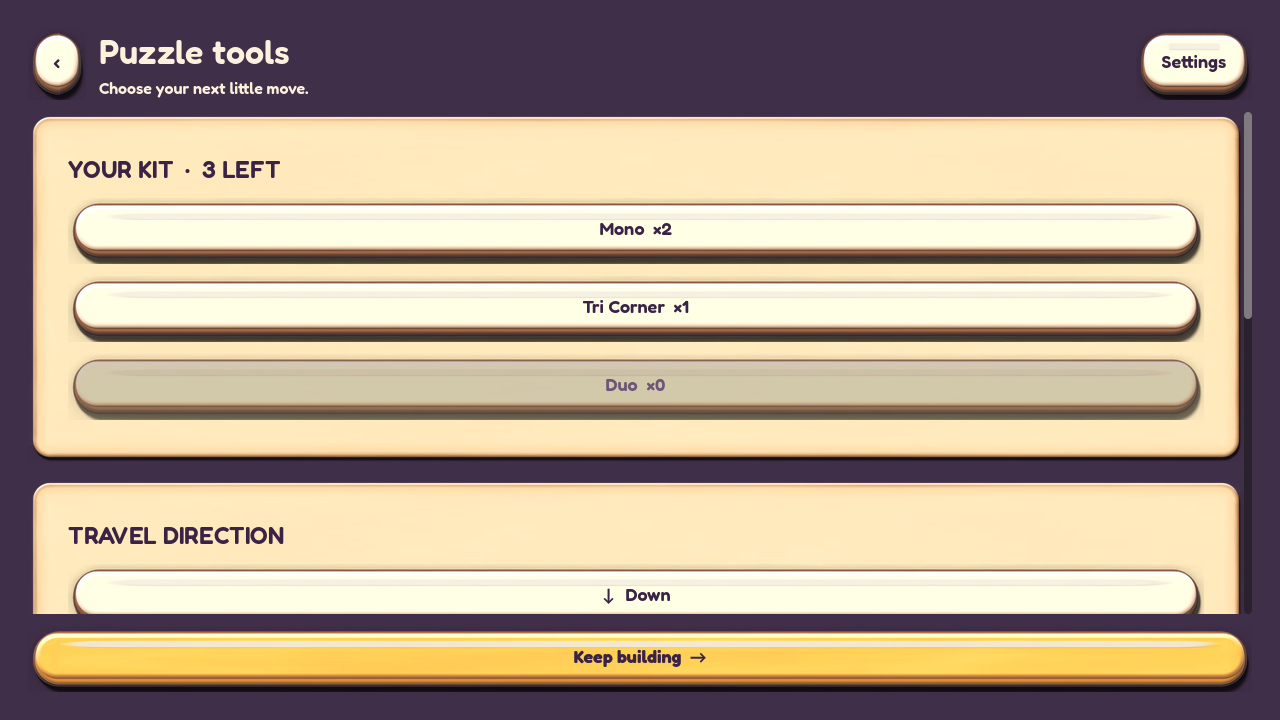
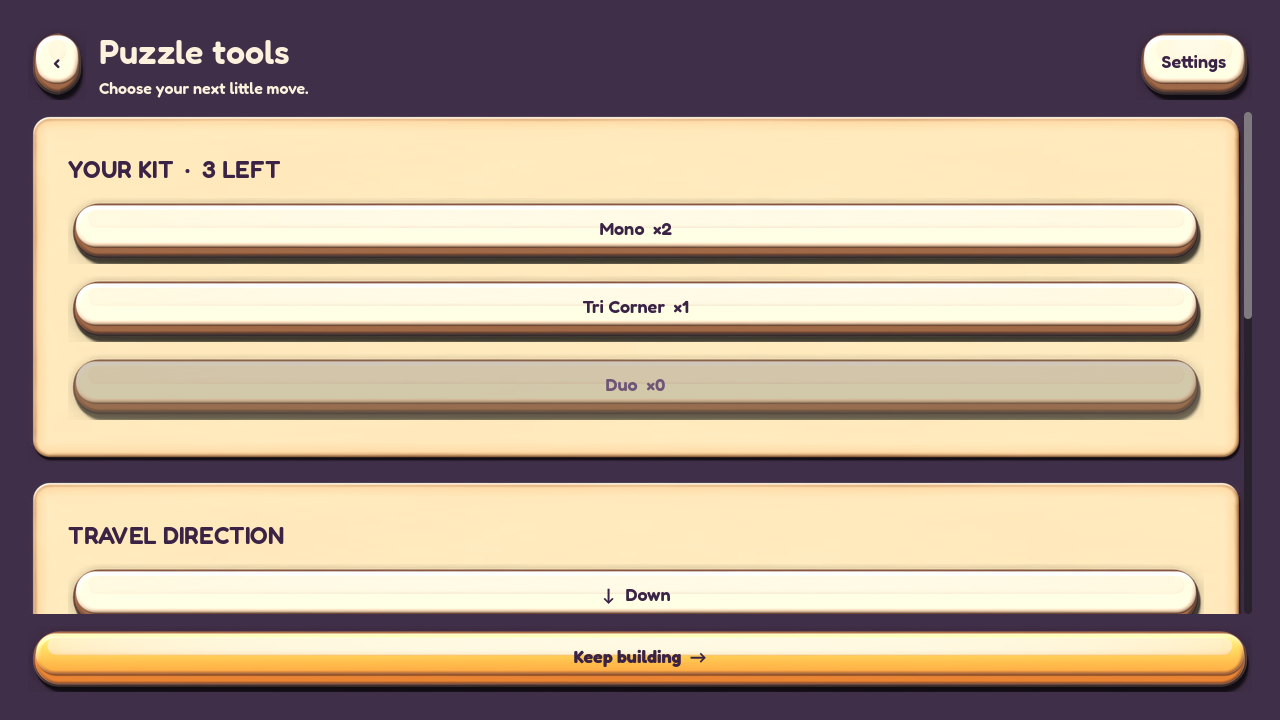
wip(art): style R&D and UI kit agent output
Story: art bible v2 (design/art/art-bible.md)

Claude-Session: https://claude.ai/code/session_015gA98JmmjSJ5ZLv762bPy3

diff --git a/assets/source/blender/ui/build_ui_kit.py b/assets/source/blender/ui/build_ui_kit.py
@@ -264,7 +264,8 @@ class NT:
         return self.m
 
 
-def mat_wood(name, palette=("wood_purple_dark", "wood_purple", "wood_purple_light"), grain="X", seed=0.0, grain_scale=1.0):
+def mat_wood(name, palette=("wood_purple_dark", "wood_purple", "wood_purple_light"), grain="X", seed=0.0, grain_scale=1.0,
+             groove=0.35, wear=None):
     t = NT(name)
     sc = (0.35 * grain_scale, 4.0 * grain_scale, 1) if grain == "X" else (4.0 * grain_scale, 0.35 * grain_scale, 1)
     co = t.obj_coords(sc)
@@ -278,8 +279,8 @@ def mat_wood(name, palette=("wood_purple_dark", "wood_purple", "wood_purple_ligh
     g = t.math("MULTIPLY", (wave, "Fac"), (noise, "Fac"))
     g = t.math("ADD", g, 0.25)
     base = t.ramp(g, [(0.15, palette[0]), (0.42, palette[1]), (0.7, palette[1]), (0.95, palette[2])])
-    colr = t.painted_edges(base, palette[2], palette[0])
-    return t.finish(colr, rough=0.6, bump=(wave, "Fac"), bump_strength=0.35)
+    colr = t.painted_edges(base, wear or palette[2], palette[0], strength=1.0 if wear is None else 1.6)
+    return t.finish(colr, rough=0.6, bump=g, bump_strength=groove)
 
 
 def mat_gold(name="gold", face="gold", deep="gold_deep", glint="gold_glint", coat=0.7):
@@ -333,6 +334,57 @@ def mat_parchment(name, hw, hh, r, burn_w=0.10):
     c = t.mix(t.math("POWER", burn_f, 1.3), c, col("burn"))
     c = t.painted_edges(c, "fff8e6", "b88a52", strength=0.6)
     return t.finish(c, rough=0.85, spec=0.15, bump=(noise, "Fac"), bump_strength=0.08)
+
+
+def mat_gold_face(hh):
+    """Gold pill face: light gold at the top to deeper amber at the bottom, faint mottling."""
+    t = NT("gold_face")
+    co = t.obj_coords()
+    sep = t.n("ShaderNodeSeparateXYZ")
+    t.l(co[0], 0, sep, 0)
+    fy = t.math("ADD", t.math("MULTIPLY", (sep, 1), 0.5 / hh), 0.5, clamp=True)
+    noise = t.n("ShaderNodeTexNoise", in_Scale=3.0, in_Detail=2.0)
+    t.l(co[0], 0, noise, "Vector")
+    grad = t.ramp(t.math("ADD", fy, t.math("MULTIPLY", (noise, "Fac"), 0.08)),
+                  [(0.0, "e08a12"), (0.45, "f5b22c"), (0.8, "ffd451"), (1.0, "ffe27a")])
+    colr = t.painted_edges(grad, "fff0a8", "b86e0a", strength=1.1)
+    return t.finish(colr, rough=0.28, coat=0.8, spec=0.6)
+
+
+def mat_gloss(hw, hh, peak=0.75):
+    """Soft glossy highlight: alpha fades toward the ends (|x|^3) and toward the bottom."""
+    m = bpy.data.materials.new("gloss")
+    m.use_nodes = True
+    t = m.node_tree
+    t.nodes.clear()
+    def node(kind, **kw):
+        n = t.nodes.new(kind)
+        for k, v in kw.items(): setattr(n, k, v)
+        return n
+    def mth(op, a, b):
+        n = node("ShaderNodeMath", operation=op, use_clamp=True)
+        for i, v in enumerate((a, b)):
+            if isinstance(v, (int, float)): n.inputs[i].default_value = v
+            else: t.links.new(v, n.inputs[i])
+        return n.outputs[0]
+    tc = node("ShaderNodeTexCoord")
+    sep = node("ShaderNodeSeparateXYZ")
+    t.links.new(tc.outputs["Object"], sep.inputs[0])
+    ax = mth("DIVIDE", mth("ABSOLUTE", sep.outputs[0], 0), hw)
+    fx = mth("SUBTRACT", 1.0, mth("POWER", ax, 3.0))
+    fy = mth("POWER", mth("ADD", mth("DIVIDE", sep.outputs[1], 2 * hh), 0.5), 1.6)
+    fac = mth("MULTIPLY", mth("MULTIPLY", fx, fy), peak)
+    out = node("ShaderNodeOutputMaterial")
+    em = node("ShaderNodeEmission")
+    em.inputs[0].default_value = col("fffbe8")
+    em.inputs[1].default_value = 1.0
+    tr = node("ShaderNodeBsdfTransparent")
+    mx = node("ShaderNodeMixShader")
+    t.links.new(fac, mx.inputs[0])
+    t.links.new(tr.outputs[0], mx.inputs[1])
+    t.links.new(em.outputs[0], mx.inputs[2])
+    t.links.new(mx.outputs[0], out.inputs[0])
+    return m
 
 
 def mat_streak():
@@ -453,21 +505,23 @@ def build_frame_purple(open_center=False):
         hw = S / 2 - T + 0.12
         rslab("parch", hw * 2, hw * 2, 0.18, 0.06, 0.03, z, mat_parchment("parch_in", hw, hw, 0.18, 0.12))
     # Dark inner bevel ring under the planks (frame reads raised over the content).
-    inner = rr_pts(S - 2 * T + 0.04, S - 2 * T + 0.04, 0.1)
-    outer = rr_pts(S - 2 * T + 0.32, S - 2 * T + 0.32, 0.2)
-    slab("bevel", [outer, inner], 0.16, 0.05, z, mat_plain("bev", "wood_purple_dark", "6b4a8a", "1f1430", rough=0.7))
+    inner = rr_pts(S - 2 * T - 0.1, S - 2 * T - 0.1, 0.12)
+    outer = rr_pts(S - 2 * T + 0.4, S - 2 * T + 0.4, 0.22)
+    slab("bevel", [outer, inner], 0.2, 0.07, z, mat_plain("bev", "2e1d40", "4a3266", "140b20", rough=0.7))
     # Four planks: top/bottom rails overhang the side posts with rounded ends.
-    wh = mat_wood("wood_h", grain="X", seed=1.3, grain_scale=0.6)
-    wv = mat_wood("wood_v", grain="Y", seed=4.1, grain_scale=0.6)
+    wh = mat_wood("wood_h", grain="X", seed=1.3, grain_scale=0.6, groove=0.9, wear="c9ace6")
+    wv = mat_wood("wood_v", grain="Y", seed=4.1, grain_scale=0.6, groove=0.9, wear="c9ace6")
     rail_w = S
     for sy in (1, -1):
         cy = sy * (S / 2 - T / 2)
         rslab("rail", rail_w, T, 0.3, 0.4, 0.13, z + 0.06, wh, cy=cy)
         # plank seam
-        rslab("seam", rail_w - 0.5, 0.025, 0.012, 0.02, 0.008, z + 0.39, mat_plain("seam", "3f2a55", "3f2a55", "2a1b3a"), cy=cy + sy * 0.05)
+        for off in (-0.2, 0.18):
+            rslab("seam", rail_w - 0.6, 0.045, 0.02, 0.03, 0.012, z + 0.45, mat_plain("seam", "2a1b3a", "3f2a55", "160e22", rough=0.9), cy=cy + off)
     for sx in (1, -1):
         cx = sx * (S / 2 - T / 2 - 0.1)
         rslab("post", T - 0.14, S - 2 * T + 0.3, 0.14, 0.34, 0.11, z + 0.04, wv, cx=cx)
+        rslab("pseam", 0.045, S - 2 * T - 0.2, 0.02, 0.03, 0.012, z + 0.37, mat_plain("pseam", "2a1b3a", "3f2a55", "160e22", rough=0.9), cx=cx + 0.08 * sx)
     # Corner caps: steel bracket + gold star + rivets.
     for sx in (1, -1):
         for sy in (1, -1):
@@ -476,21 +530,17 @@ def build_frame_purple(open_center=False):
             gold_star(cx, cy, z + 0.58, 0.3, M["gold"], depth=0.12)
             for (rx, ry) in ((-1, -1), (1, -1), (-1, 1), (1, 1)):
                 rivet(cx + rx * T * 0.32, cy + ry * T * 0.32, z + 0.6, 0.05, M["gold"])
-    # Vines from the top-left and bottom-right corners, blossoms near the corners only.
+    # Vines wrap each corner: along the rail, over the inner plank edge, down the post.
     e = S / 2
-    vz = z + 0.66
-    vine(lerp_path([(-e + 0.75, e - 0.15), (-e + 1.2, e - 0.35), (-e + 1.65, e - 0.12)], 26, 0.05, 1.5), vz, M, radius=0.055, leaf_size=0.17,
-         leaves=6, flowers=[(-e + 1.05, e - 0.12, 0.17), (-e + 1.5, e - 0.4, 0.14)], seed=3)
-    vine(lerp_path([(-e + 0.15, e - 0.75), (-e + 0.35, e - 1.2), (-e + 0.12, e - 1.65)], 26, 0.05, 1.5), vz, M, radius=0.055, leaf_size=0.17,
-         leaves=6, flowers=[(-e + 0.4, e - 1.05, 0.15)], seed=4)
-    vine(lerp_path([(e - 0.75, -e + 0.15), (e - 1.2, -e + 0.35), (e - 1.65, -e + 0.12)], 26, 0.05, 1.5), vz, M, radius=0.055, leaf_size=0.17,
-         leaves=6, flowers=[(e - 1.1, -e + 0.12, 0.17), (e - 1.45, -e + 0.42, 0.14)], seed=5)
-    vine(lerp_path([(e - 0.15, -e + 0.75), (e - 0.35, -e + 1.2), (e - 0.12, -e + 1.65)], 26, 0.05, 1.5), vz, M, radius=0.055, leaf_size=0.17,
-         leaves=6, flowers=[(e - 0.4, -e + 1.1, 0.15)], seed=6)
-    vine(lerp_path([(e - 0.75, e - 0.15), (e - 1.2, e - 0.3), (e - 1.5, e - 0.12)], 22, 0.04, 1.2), vz, M, radius=0.05, leaf_size=0.16,
-         leaves=5, flowers=[(e - 1.1, e - 0.1, 0.15)], seed=7)
-    vine(lerp_path([(-e + 0.75, -e + 0.15), (-e + 1.2, -e + 0.3), (-e + 1.5, -e + 0.12)], 22, 0.04, 1.2), vz, M, radius=0.05, leaf_size=0.16,
-         leaves=5, flowers=[(-e + 1.1, -e + 0.1, 0.15)], seed=8)
+    vz = z + 0.7
+    for k, (sx, sy) in enumerate(((-1, 1), (1, -1), (1, 1), (-1, -1))):
+        big = k < 2
+        P = lambda a, b: (sx * (e - a), sy * (e - b))
+        path = [P(2.05, 0.28), P(1.45, 0.62), P(0.95, 1.02), P(0.62, 0.62), P(0.95, 0.4), P(1.1, 1.0), P(0.66, 1.5), P(0.3, 2.05)]
+        if not big: path = path[2:7]
+        fl = [P(1.4, 0.55) + (0.17,), P(0.98, 1.0) + (0.19,), P(0.5, 1.6) + (0.15,)] if big else [P(0.9, 0.95) + (0.16,)]
+        vine(lerp_path(path, 60 if big else 40, 0.06, 2.0), vz, M, radius=0.075 if big else 0.06, leaf_size=0.19,
+             leaves=11 if big else 6, flowers=fl, seed=20 + k)
     m = 236  # 2x px: plank + caps + vines stay in the fixed corners
     return render("frame_purple_open" if open_center else "frame_purple", (m, m, m, m))
 
@@ -569,15 +619,15 @@ def build_plaque_title():
 
 def build_pill(name, face, lip, rim, w_px=320, h_px=128, star=False):
     reset(w_px, h_px)
-    face, lip, rim = face(), lip(), rim()  # factories: materials must be made after reset()
     W, H = (w_px - 20) / 100, (h_px - 22) / 100
-    lip_h = 0.11
+    lip_h = 0.17
+    fh = H - 0.1 - lip_h
+    face, lip, rim = face(fh / 2), lip(), rim()  # factories: materials must be made after reset()
     rslab("rim", W, H, H / 2, 0.16, 0.05, 0.0, rim)
     rslab("lip", W - 0.08, H - 0.08, (H - 0.08) / 2, 0.26, 0.07, 0.03, lip)
-    fh = H - 0.1 - lip_h
     rslab("face", W - 0.12, fh, fh / 2, 0.24, 0.09, 0.14, face, cy=lip_h / 2 + 0.01)
-    sw, sh = W - fh * 1.3, fh * 0.15
-    rslab("streak", sw, sh, sh / 2, 0.01, 0.004, 0.39, mat_streak(), cy=lip_h / 2 + fh * 0.26)
+    sw, sh = W - fh * 0.75, fh * 0.42
+    g = rslab("gloss", sw, sh, sh / 2, 0.01, 0.004, 0.39, mat_gloss(sw / 2, sh / 2), cy=lip_h / 2 + fh * 0.2)
     lr = int(round(H * 100 / 2 + 12))
     return render(name, (lr, 44, lr, 54))
 
@@ -704,9 +754,9 @@ PIECES = {
     "panel_parchment": build_panel_parchment,
     "panel_wood": build_panel_wood,
     "plaque_title": build_plaque_title,
-    "btn_gold": lambda: build_pill("btn_gold", lambda: mat_gold("btn_gold_face"), lambda: mat_plain("glip", "gold_deep", "e0a030", "8a5410", rough=0.4, coat=0.4),
+    "btn_gold": lambda: build_pill("btn_gold", lambda hh: mat_gold_face(hh), lambda: mat_plain("glip", "d27a08", "f0a020", "8e4a04", rough=0.35, coat=0.5),
                                    lambda: mat_plain("grim", "6a3a14", "8a5a34", "3a1e0a")),
-    "btn_cream": lambda: build_pill("btn_cream", lambda: mat_plain("cface", "cream", "ffffff", "e2c995", rough=0.4, coat=0.4, edge=0.8),
+    "btn_cream": lambda: build_pill("btn_cream", lambda hh: mat_plain("cface", "cream", "ffffff", "e2c995", rough=0.4, coat=0.4, edge=0.8),
                                     lambda: mat_plain("clip", "8a5a34", "b07a48", "4e2f1a", rough=0.5), lambda: mat_plain("crim", "4e2f1a", "6a4024", "2a160a")),
     "btn_close": build_btn_close,
     "chip_hud": lambda: build_chip("meadow", "chip_hud"),

diff --git a/prototypes/style_rnd/blender_frame_ninepatch.py b/prototypes/style_rnd/blender_frame_ninepatch.py
@@ -11,8 +11,8 @@ os.makedirs(OUT, exist_ok=True)
 RES = 1024          # 2x asset; shown at 512 in Godot
 ORTHO = 2.30        # world units covered by the image
 H = 1.0             # frame outer half-size
-VARIANT = os.environ.get("WT_VARIANT", "panel")  # panel | chip
-W = 0.34 if VARIANT == "panel" else 0.24   # plank width
+VARIANT = os.environ.get("WT_VARIANT", "panel")  # panel | chip | screen (screen = panel without parchment)
+W = 0.24 if VARIANT == "chip" else 0.34   # plank width
 T = 0.13            # plank thickness (towards camera, +Z)
 
 bpy.ops.wm.read_factory_settings(use_empty=True)
@@ -175,8 +175,9 @@ for nm, sz, lc in (("lip_t", (2 * H - 2 * W + 0.06, 0.05, 0.05), (0, H - W - 0.0
     bevelled_box(nm, sz, lc, flat_material("lip", '#2e1f40', rough=0.7), bevel=0.02, segs=2)
 
 # Parchment panel behind
-bpy.ops.mesh.primitive_plane_add(size=1.0, location=(0, 0, -0.01))
-p = bpy.context.active_object; p.scale = (2 * H - 2 * W + 0.1, 2 * H - 2 * W + 0.1, 1); p.data.materials.append(M_PARCH)
+if VARIANT != "screen":
+    bpy.ops.mesh.primitive_plane_add(size=1.0, location=(0, 0, -0.01))
+    p = bpy.context.active_object; p.scale = (2 * H - 2 * W + 0.1, 2 * H - 2 * W + 0.1, 1); p.data.materials.append(M_PARCH)
 
 def star_mesh(name, r_out, r_in, depth, loc, mat):
     bm = bmesh.new(); vs = []
@@ -257,11 +258,11 @@ def corner_vine(sx, sy):
     blossom((pts[3][0], pts[3][1] + sy * 0.05, T + 0.08))
     blossom((pts[10][0] - sx * 0.05, pts[10][1], T + 0.08), 0.03)
 
-if VARIANT == "panel":
+if VARIANT != "chip":
     corner_vine(-1, 1)
     corner_vine(1, -1)
 # small extra sprig on the other two corners so all four corners read decorated
-for sx, sy in (((1, 1), (-1, -1)) if VARIANT == "panel" else ((-1, 1),)):
+for sx, sy in (((1, 1), (-1, -1)) if VARIANT != "chip" else ((-1, 1),)):
     blossom((sx * (H - W * 1.1), sy * (H - W * 0.5), T + 0.08), 0.03)
     leaf((sx * (H - W * 1.45), sy * (H - W * 0.45), T + 0.06), 0.4 * sx)
 
@@ -289,13 +290,13 @@ sc.render.resolution_x = sc.render.resolution_y = RES
 sc.render.image_settings.file_format = 'PNG'; sc.render.image_settings.color_mode = 'RGBA'
 sc.view_settings.view_transform = 'Standard'   # keeps palette hexes predictable (AgX desaturates)
 sc.view_settings.look = 'None'
-NAME = "frame_purple_vine" if VARIANT == "panel" else "frame_purple_chip"
+NAME = {"panel": "frame_purple_vine", "chip": "frame_purple_chip", "screen": "frame_purple_screen"}[VARIANT]
 path = os.path.join(OUT, NAME + ".png"); sc.render.filepath = path
 bpy.ops.render.render(write_still=True)
 
 # nine-patch margins (pixels, at 2x). Corner patch must contain caps, vines and blossoms.
 px_per_unit = RES / ORTHO
-margin = int(round((ORTHO / 2 - (H - W - (0.22 if VARIANT == 'panel' else 0.06))) * px_per_unit))
+margin = int(round((ORTHO / 2 - (H - W - (0.06 if VARIANT == 'chip' else 0.22))) * px_per_unit))
 json.dump({"texture": NAME + ".png", "scale": 2, "margin_left": margin, "margin_top": margin,
            "margin_right": margin, "margin_bottom": margin, "axis_stretch": "stretch",
            "content_inset_px": int(round((ORTHO / 2 - (H - W)) * px_per_unit))},
